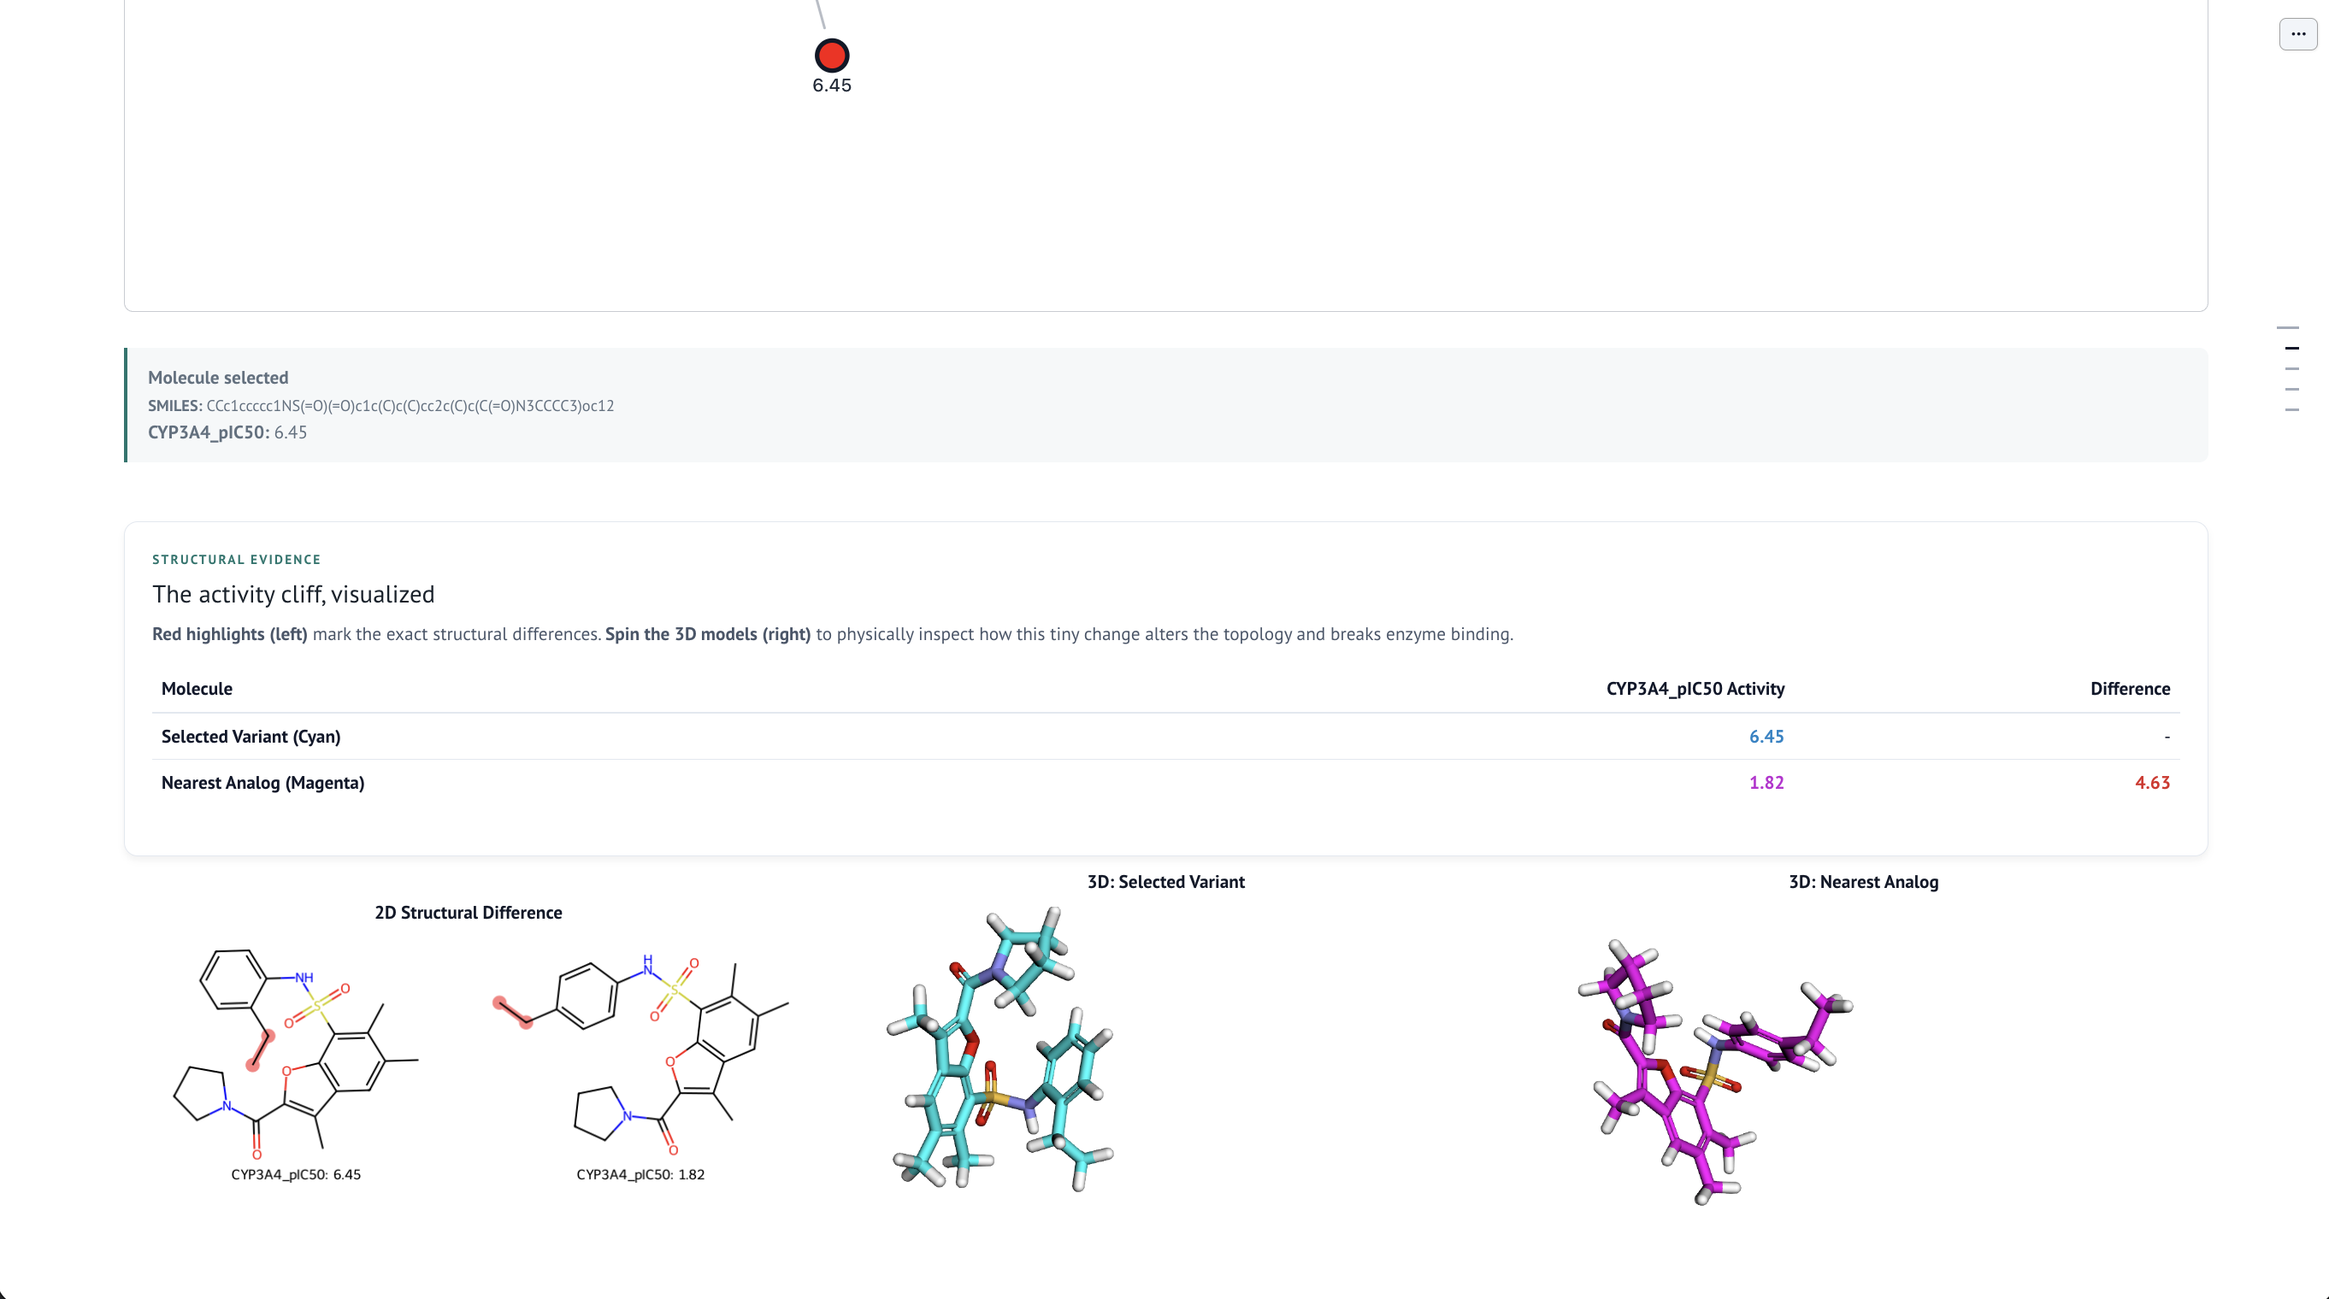
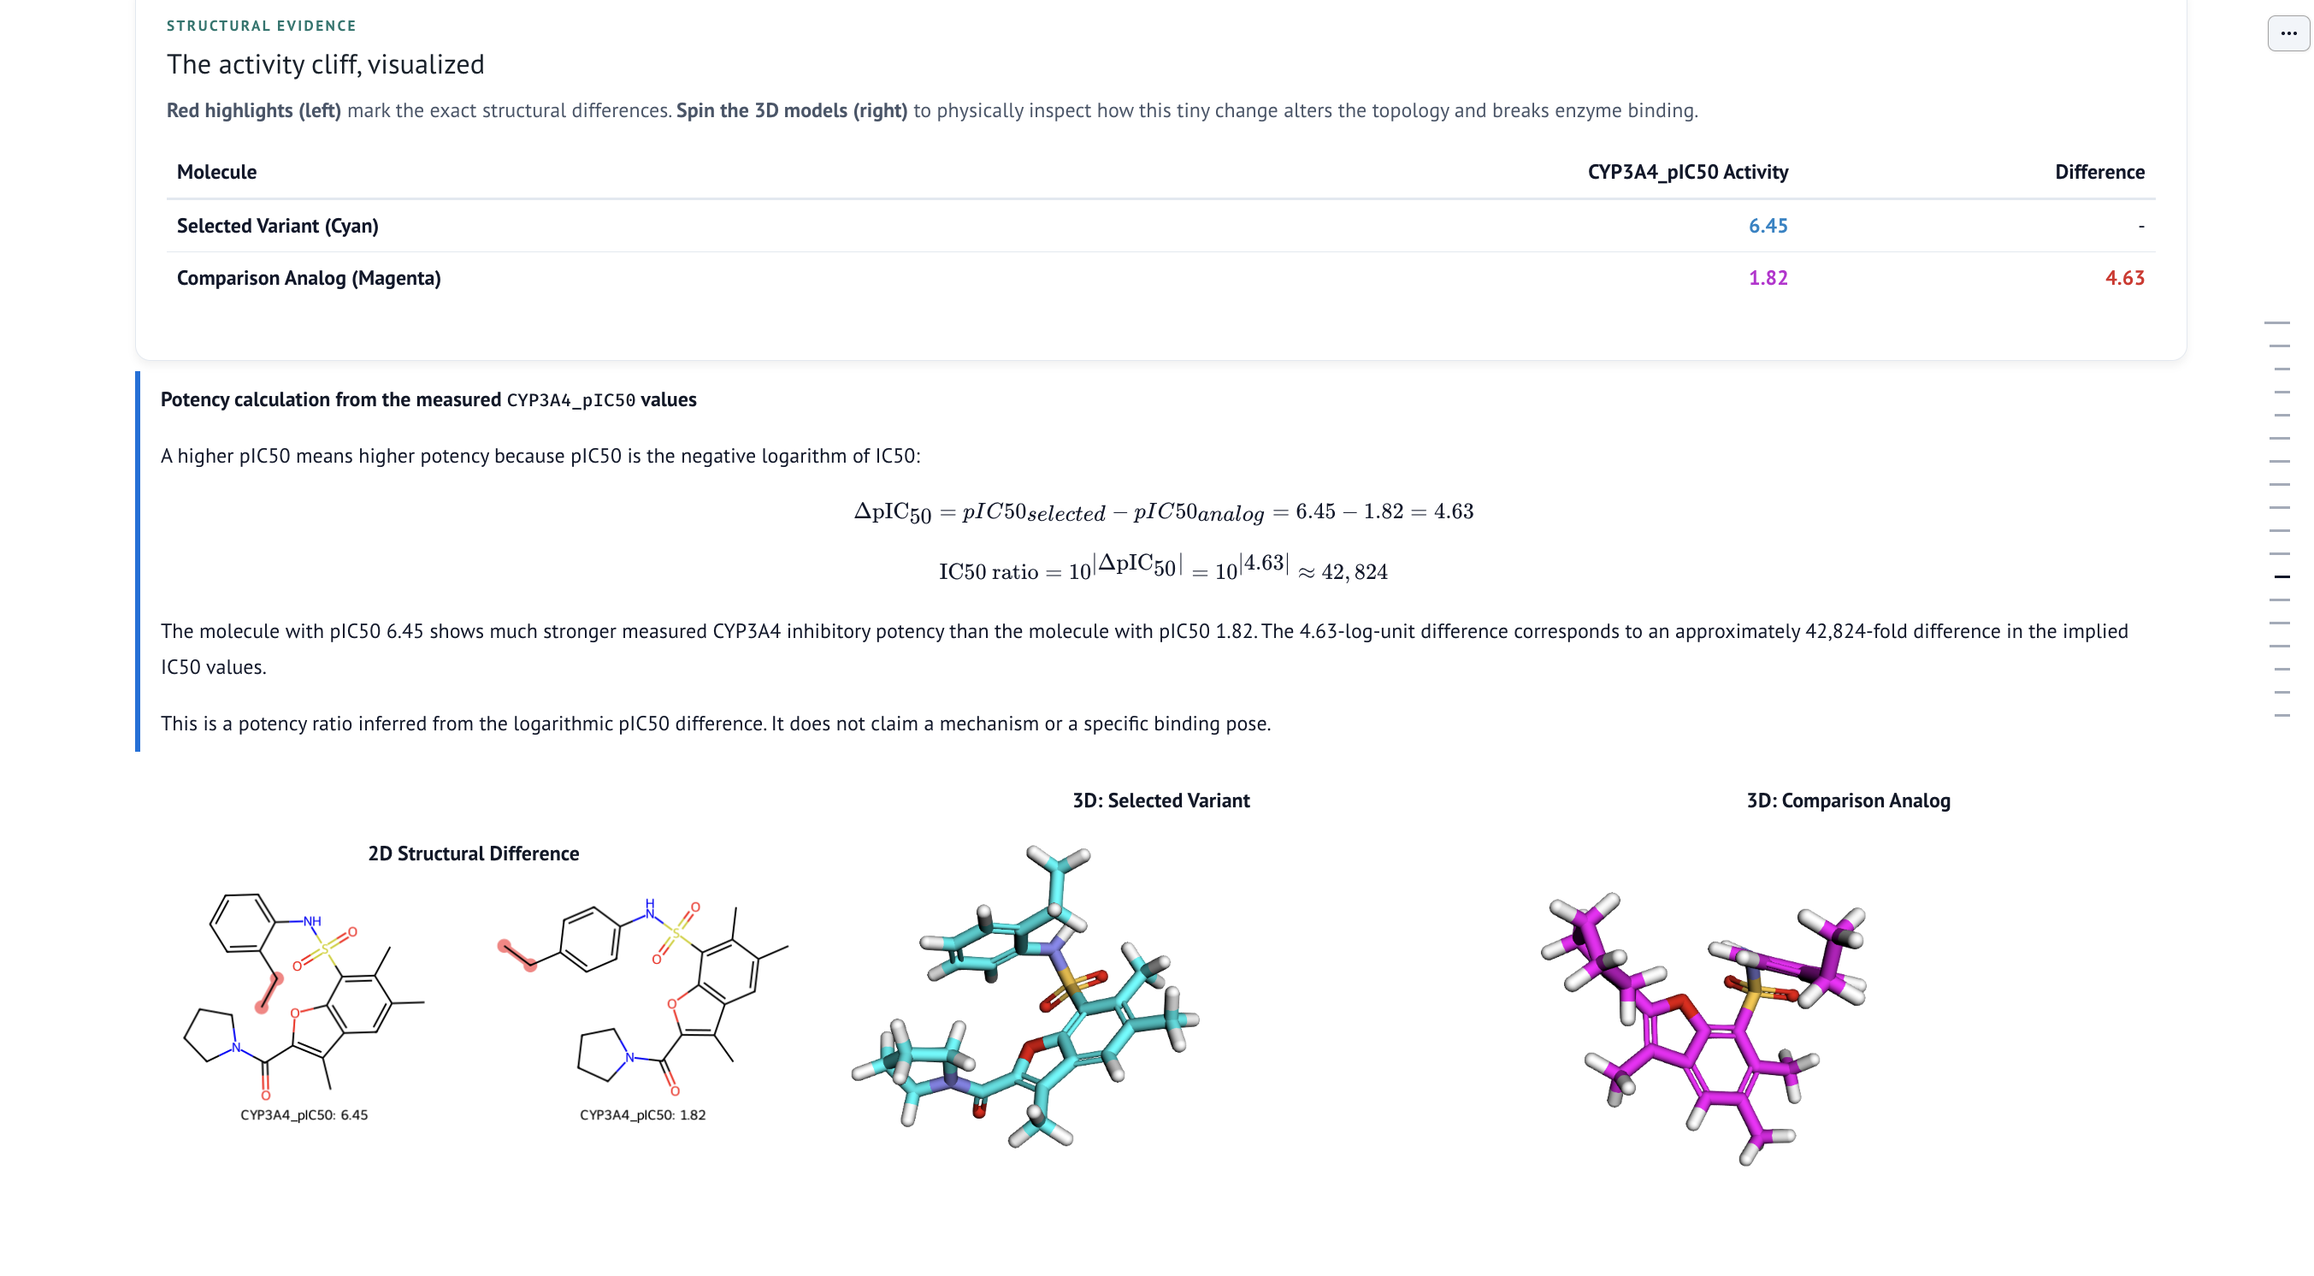
fix: update image references in README

diff --git a/README.md b/README.md
@@ -1,210 +1,179 @@
 <h1 align="center">CYP3A4 Activity Cliff Explorer</h1>
 
 <p align="center">
+  <a href="https://github.com/Mohit5Upadhyay/cyp-activity-cliff-explorer-molab"><img src="https://img.shields.io/badge/Repository-GitHub-181717?style=for-the-badge&logo=github" alt="GitHub repository"></a>
+  <a href="https://molab.marimo.io/"><img src="https://img.shields.io/badge/Open%20in-molab-2563eb?style=for-the-badge" alt="Open in molab"></a>
   <a href="https://marimo.io/pages/events/notebook-competition-3"><img src="https://img.shields.io/badge/Competition-marimo%20Notebook%20%233-6f42c1?style=for-the-badge" alt="marimo Notebook Competition #3"></a>
-  <a href="https://marimo.io"><img src="https://img.shields.io/badge/Built%20with-marimo-6f42c1?style=for-the-badge" alt="Built with marimo"></a>
   <a href="https://huggingface.co/datasets/openadmet/Octant_CYP_inhibition_reactivity_blog_release"><img src="https://img.shields.io/badge/Data-OpenADMET-f59e0b?style=for-the-badge" alt="OpenADMET dataset"></a>
   <a href="LICENSE"><img src="https://img.shields.io/badge/License-MIT-2ea44f?style=for-the-badge" alt="MIT License"></a>
 </p>
 
 <p align="center">
-  <b>An interactive cheminformatics notebook for finding CYP3A4 activity cliffs<br>
-  and inspecting where a simple molecular-descriptor model misses them.</b>
+  An interactive marimo notebook for inspecting CYP3A4 inhibition activity cliffs<br>
+  and auditing a simple 1D/2D molecular-descriptor baseline.
 </p>
 
 <p align="center">
-  <a href="#run-the-notebook">Run the notebook</a> ·
+  <a href="#open-the-notebook">Open the notebook</a> ·
   <a href="#how-it-works">How it works</a> ·
-  <a href="#screenshots-and-demo">Screenshots and demo</a> ·
+  <a href="#run-locally">Run locally</a> ·
   <a href="#methodology">Methodology</a>
 </p>
 
 <p align="center">
-  <a href="https://molab.marimo.io/github/Mohit5Upadhyay/cyp-activity-cliff-explorer-molab/blob/main/cyp_activity_cliff.py"><strong>Open in molab</strong></a>
-  &nbsp;·&nbsp;
-  <a href="https://marimo.io/pages/events/notebook-competition-3"><strong>Competition page</strong></a>
-  &nbsp;·&nbsp;
-  <a href="https://huggingface.co/datasets/openadmet/Octant_CYP_inhibition_reactivity_blog_release"><strong>Dataset</strong></a>
+  <a href="https://molab.marimo.io/"><img src="https://marimo.io/molab-shield.svg" alt="Open in molab"></a>
 </p>
 
 <p align="center">
   <img src="img/header.png" width="88%" alt="CYP3A4 Activity Cliff Explorer notebook overview">
 </p>
 
-<p align="center"><i>Explore measured activity, compare related molecules, and audit model error in one notebook.</i></p>
-
----
-
 ## What this project does
 
-An activity cliff is a group of structurally related molecules with substantially different measured activities. The notebook makes this pattern inspectable in the OpenADMET Octant CYP inhibition dataset.
+An activity cliff is a sharp change in measured biological activity among structurally related molecules. This notebook makes candidate cliffs inspectable in the OpenADMET Octant CYP inhibition dataset.
 
-The working app focuses on the `CYP3A4_pIC50` endpoint. It cleans valid structures, applies available assay QC filters, extracts Bemis-Murcko scaffolds, ranks scaffolds by within-scaffold variance, and opens an interactive path from scaffold selection to molecular comparison and model audit.
+The workflow focuses on the `CYP3A4_pIC50` endpoint. It canonicalizes valid `standardized_smiles`, applies the available assay-quality filters, extracts Bemis-Murcko scaffolds, and ranks scaffold groups by the sample variance of their measured pIC50 values. The interactive explorer then connects a scaffold to its molecules, structural differences, generated 3D conformers, and descriptor-based model error.
 
-This is an educational analysis and visualization notebook. It is not a clinical, regulatory, or production prediction system.
+The notebook is an educational and exploratory analysis. It does not establish a protein-bound mechanism, clinical risk, regulatory conclusion, or production-ready CYP3A4 predictor.
+
+## Why it matters
+
+CYP3A4 is an enzyme involved in the metabolism of many drugs. Its inhibition is therefore relevant to drug-drug-interaction research. `IC50` is the concentration required to reduce measured enzyme activity by 50% in an assay. `pIC50` expresses the concentration on a logarithmic scale:
+
+$$\mathrm{pIC}_{50} = -\log_{10}(\mathrm{IC}_{50}\ [\mathrm{M}])$$
+
+Lower IC50 means stronger inhibition, while higher pIC50 means stronger inhibition. For two measured pIC50 values:
+
+$$\Delta\mathrm{pIC}_{50} = \mathrm{pIC}_{50,A} - \mathrm{pIC}_{50,B}$$
+$$\frac{\mathrm{IC}_{50,B}}{\mathrm{IC}_{50,A}} = 10^{\Delta\mathrm{pIC}_{50}}$$
+
+The notebook displays this calculation when a molecule and its same-scaffold comparison molecule are selected. It reports the ratio implied by the pIC50 difference; it does not convert the dataset values back to IC50 without an explicitly known concentration unit.
 
 ## How it works
 
 ```mermaid
 flowchart TD
-    A[Load OpenADMET inhibition train split] --> B[Canonicalize standardized SMILES]
-    B --> C[Apply available QC filters]
-    C --> D[Extract Bemis-Murcko scaffolds]
-    D --> E[Rank top 15 by CYP3A4_pIC50 variance]
-    E --> F[Select a scaffold in the table]
-    F --> G[Explore variants in the graph]
-    G --> H[Select a molecule]
-    H --> I[Compare 2D differences and 3D views]
-    H --> J[Show predicted vs experimental value]
-    D --> K[Create scaffold-based 80/20 split]
-    K --> L[Train Random Forest on 12 RDKit descriptors]
-    L --> J
-    L --> M[Plot all held-out test results]
+    A[Load inhibition train split] --> B[Read standardized_smiles]
+    B --> C[Canonicalize valid structures with RDKit]
+    C --> D[Apply available QC filters]
+    D --> E[Extract Bemis-Murcko scaffolds]
+    E --> F[Build descriptor table]
+    F --> G[Split whole scaffolds 80/20]
+    G --> H[Train Random Forest on 12 descriptors]
+    E --> I[Rank held-out scaffold groups by pIC50 variance]
+    I --> J[Select scaffold and molecule]
+    J --> K[Compare 2D structures and generated 3D conformers]
+    J --> L[Compare predicted and measured pIC50]
+    H --> L
+    H --> M[Plot held-out predictions]
 ```
 
-## What you can explore
+## What you can inspect
 
-- A ranked table of the 15 highest-variance scaffolds with at least three measured molecules.
-- A `wigglystuff` molecular network centered on the selected scaffold.
-- Activity-colored molecule nodes for the `CYP3A4_pIC50` endpoint.
-- 2D structure comparison with MCS-based difference highlighting.
-- Interactive 3D views for a selected molecule and a same-scaffold high-difference analog.
-- A per-molecule dumbbell chart comparing Random Forest prediction with experimental value.
-- A global held-out scatter plot with molecule structure tooltips and activity-cliff highlighting.
-
-<p align="center">
-  <img src="img/scaffold-explorer.png" width="88%" alt="Interactive scaffold ranking table and molecular network">
-</p>
-
-<p align="center"><i>Scaffold ranking and molecular variant exploration.</i></p>
+- The selected held-out scaffold table and its within-scaffold cliff score.
+- Molecules grouped around a Bemis-Murcko scaffold in an interactive graph.
+- MCS-highlighted 2D structural differences.
+- Generated 3D conformers for visual inspection. These are not experimentally determined binding poses.
+- A formula-based potency callout showing which measured pIC50 is higher and the implied IC50 fold ratio.
+- A Random Forest prediction-versus-measurement callout and dumbbell chart.
+- A held-out global scatter plot with structure tooltips.
 
 <p align="center">
-  <img src="img/activity-cliff-analysis.png" width="88%" alt="2D and 3D activity cliff comparison">
+  <img src="img/cliff-table.png" width="88%" alt="Activity cliff ranking table">
 </p>
-
-<p align="center"><i>Selected molecule compared with a high-difference analog from the same scaffold.</i></p>
-
-## Screenshots and demo
-
+<p align="center"><i>Scaffold-level activity-cliff candidates ranked from measured CYP3A4 pIC50 values.</i></p>
 
 <p align="center">
-  <img src="img/scaffoldMetrics.png" width="88%" alt="CYP3A4 Activity Cliff Explorer notebook overview">
+  <img src="img/molecular-network.png" width="88%" alt="Molecular scaffold network">
 </p>
-
+<p align="center"><i>Interactive molecular neighborhood for a selected scaffold.</i></p>
 
 <p align="center">
-  <img src="img/molNetwork.png" width="88%" alt="CYP3A4 Activity Cliff Explorer notebook overview">
+  <img src="img/model-fail.png" width="88%" alt="Model prediction and activity comparison">
 </p>
-
-
-
-<p align="center">
-  <img src="img/3d.png" width="88%" alt="CYP3A4 Activity Cliff Explorer notebook overview">
-</p>
-
-
-<p align="center">
-  <img src="img/globalPerformance.png" width="88%" alt="CYP3A4 Activity Cliff Explorer notebook overview">
-</p>
-
-
-The repository does not currently contain a project-specific video URL. The official links below are the correct places to access the competition context, the live molab environment, and the source dataset:
-
-- [Open the notebook workspace on molab](https://molab.marimo.io/github/Mohit5Upadhyay/cyp-activity-cliff-explorer-molab/blob/main/cyp_activity_cliff.py)  [![Open in molab](https://marimo.io/molab-shield.svg)](https://molab.marimo.io/github/Mohit5Upadhyay/cyp-activity-cliff-explorer-molab/blob/main/cyp_activity_cliff.py)
-- [Read about marimo Notebook Competition #3](https://marimo.io/pages/events/notebook-competition-3)
-- [Inspect the OpenADMET dataset](https://huggingface.co/datasets/openadmet/Octant_CYP_inhibition_reactivity_blog_release)
-
-## Run the notebook
-
-### Requirements
-
-- Python 3.10 or newer
-- Internet access for the first Hugging Face dataset download
-
-### Local setup
-
-```bash
-git clone https://github.com/Mohit5Upadhyay/cyp-activity-cliff-explorer-molab.git
-cd cyp-activity-cliff-explorer-molab
-# Create a virtual environment named '.venv'
-python3 -m venv .venv
-
-# Activate the virtual environment
-source .venv/bin/activate
-
-# Install pip upgrade just to be safe
-pip install --upgrade pip
-
-# Install the project and all dependencies from pyproject.toml
-pip install -e .
-
-marimo edit cyp_activity_cliff.py  # edit mode
-
-marimo run cyp_activity_cliff.py  # read only
-```
-
-`cyp_activity_cliff.py` also contains PEP 723 inline dependency metadata for compatible marimo environments.
-
-### Run on molab
-
-1. Open [molab notebooks](https://molab.marimo.io/github/Mohit5Upadhyay/cyp-activity-cliff-explorer-molab/blob/main/cyp_activity_cliff.py).
-2. Upload `cyp_activity_cliff.py`.
-3. Run the notebook.
-4. Wait for dataset preparation, scaffold extraction, and model training to complete.
-
-The notebook loads remote data and performs chemistry and model computations at runtime. Actual runtime depends on the environment and cache state.
+<p align="center"><i>Descriptor-model audit for a selected molecule.</i></p>
 
 ## Methodology
 
 ### Data preparation
 
-The app loads the `train` split of the `inhibition` configuration from:
+The notebook loads the `train` split of the `inhibition` configuration from [`openadmet/Octant_CYP_inhibition_reactivity_blog_release`](https://huggingface.co/datasets/openadmet/Octant_CYP_inhibition_reactivity_blog_release). It reads `standardized_smiles`, canonicalizes valid structures with RDKit, and applies filters when these fields are present:
 
-```text
-openadmet/Octant_CYP_inhibition_reactivity_blog_release
-```
+- `qc_flag_primary` must be `PASS`.
+- `drc_qc_status` must be `PASS`.
+- `rollover_status` must not be `TRUE` or `YES`.
 
-It reads `standardized_smiles`, canonicalizes valid molecules with RDKit, and filters rows when these QC columns are present:
+### Scaffold ranking
 
-- `drc_qc_status`
-- `qc_flag_primary`
-- `rollover_status`
+Bemis-Murcko scaffolds are extracted from canonical SMILES. Groups with fewer than three non-null `CYP3A4_pIC50` values are skipped. The score used by the code is the pandas sample variance:
 
-### Scaffold analysis
+$$\mathrm{CliffScore}(s) = \mathrm{Var}(y_s) = \frac{1}{n_s-1}\sum_{i=1}^{n_s}(y_i - \bar{y}_s)^2$$
 
-The app extracts Bemis-Murcko scaffolds from canonical SMILES. Scaffolds with fewer than three non-null `CYP3A4_pIC50` values are skipped. The displayed ranking is sorted by within-scaffold variance and includes molecule count and cliff score.
+This is a candidate-screening score based on activity spread within a shared scaffold. It is not a formal universal definition of an activity cliff and does not itself prove pairwise structural similarity or mechanism.
 
 ### Model audit
 
-The model is intentionally a simple baseline:
+The baseline is a `RandomForestRegressor` with 100 trees, `max_depth=10`, and `random_state=42`. It uses these 12 RDKit descriptors:
 
-- `RandomForestRegressor` with 100 trees and `max_depth=10`.
-- 12 RDKit descriptors: molecular weight, LogP, TPSA, hydrogen-bond counts, rotatable bonds, aromatic/aliphatic/saturated ring counts, total ring count, fraction CSP3, and heteroatom count.
-- Scaffold-based 80/20 train/test split with `random_state=42`.
-- Mean absolute error and $R^2$ for train and held-out test molecules.
+- Molecular weight, LogP, and TPSA.
+- Hydrogen-bond donor and acceptor counts.
+- Rotatable-bond count.
+- Aromatic, aliphatic, and saturated ring counts.
+- Total ring count, fraction CSP3, and heteroatom count.
 
-The audit is designed to expose descriptor limitations. It should not be interpreted as a validated CYP3A4 predictor.
+The split is scaffold-based: whole scaffolds are assigned to an 80% training partition or a 20% test partition. The test metrics therefore measure performance on scaffolds excluded from training for this run. The model does not receive 3D conformers, protein structures, binding poses, or explicit spatial interaction features.
 
-These tests cover backend behavior. The full notebook additionally requires access to the remote dataset and a marimo runtime.
+## Open the notebook
 
-## Data and references
+The updated molab notebook URL will be added here when available:
 
-- [OpenADMET Octant CYP inhibition and reactivity dataset](https://huggingface.co/datasets/openadmet/Octant_CYP_inhibition_reactivity_blog_release)
+**[Open this project in molab](https://molab.marimo.io/)**
+
+The source repository is available at [github.com/Mohit5Upadhyay/cyp-activity-cliff-explorer-molab](https://github.com/Mohit5Upadhyay/cyp-activity-cliff-explorer-molab). The project page for [marimo Notebook Competition #3](https://marimo.io/pages/events/notebook-competition-3) provides the competition context.
+
+## Run locally
+
+### Requirements
+
+- Python 3.10 or newer.
+- Internet access for the first Hugging Face dataset download.
+- A working RDKit installation supported by the project dependencies.
+
+### Install and run
+
+```bash
+git clone https://github.com/Mohit5Upadhyay/cyp-activity-cliff-explorer-molab.git
+cd cyp-activity-cliff-explorer-molab
+
+python3 -m venv .venv
+source .venv/bin/activate
+
+python -m pip install --upgrade pip
+python -m pip install -e .
+
+# Interactive editor
+marimo edit cyp_activity_cliff.py
+
+# Run-only view
+marimo run cyp_activity_cliff.py
+```
+
+The script also includes PEP 723 inline dependency metadata for compatible tools that run Python scripts with inline dependencies.
+
+## References and documentation
+
+- [Project repository](https://github.com/Mohit5Upadhyay/cyp-activity-cliff-explorer-molab)
+- [OpenADMET Octant CYP inhibition dataset](https://huggingface.co/datasets/openadmet/Octant_CYP_inhibition_reactivity_blog_release)
+- [marimo documentation](https://docs.marimo.io/)
+- [molab](https://molab.marimo.io/)
 - [marimo Notebook Competition #3](https://marimo.io/pages/events/notebook-competition-3)
-- [molab notebooks](https://molab.marimo.io/github/Mohit5Upadhyay/cyp-activity-cliff-explorer-molab/blob/main/cyp_activity_cliff.py)
-- [marimo](https://marimo.io)
 - [RDKit](https://www.rdkit.org/)
 - [wigglystuff](https://github.com/koaning/wigglystuff)
-
 
 ## License
 
 This project is licensed under the MIT License. See [LICENSE](LICENSE).
 
----
-
 <p align="center">
-  <b>Explore the data. Find the cliff. Audit the model.</b>
-  <br><br>
-  <a href="https://molab.marimo.io/github/Mohit5Upadhyay/cyp-activity-cliff-explorer-molab/blob/main/cyp_activity_cliff.py">Launch with molab</a>
+  <a href="https://molab.marimo.io/"><img src="https://marimo.io/molab-shield.svg" alt="Open in molab"></a>
 </p>
